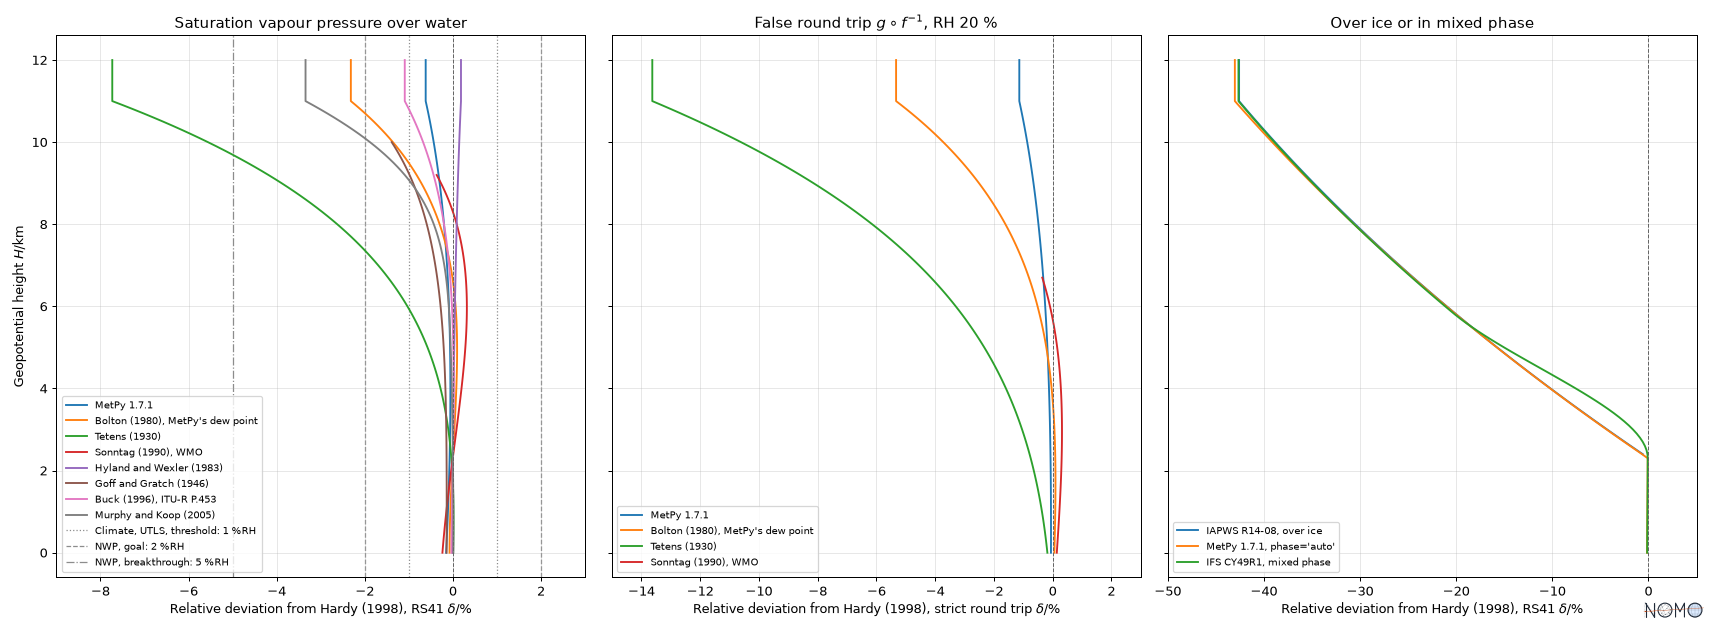
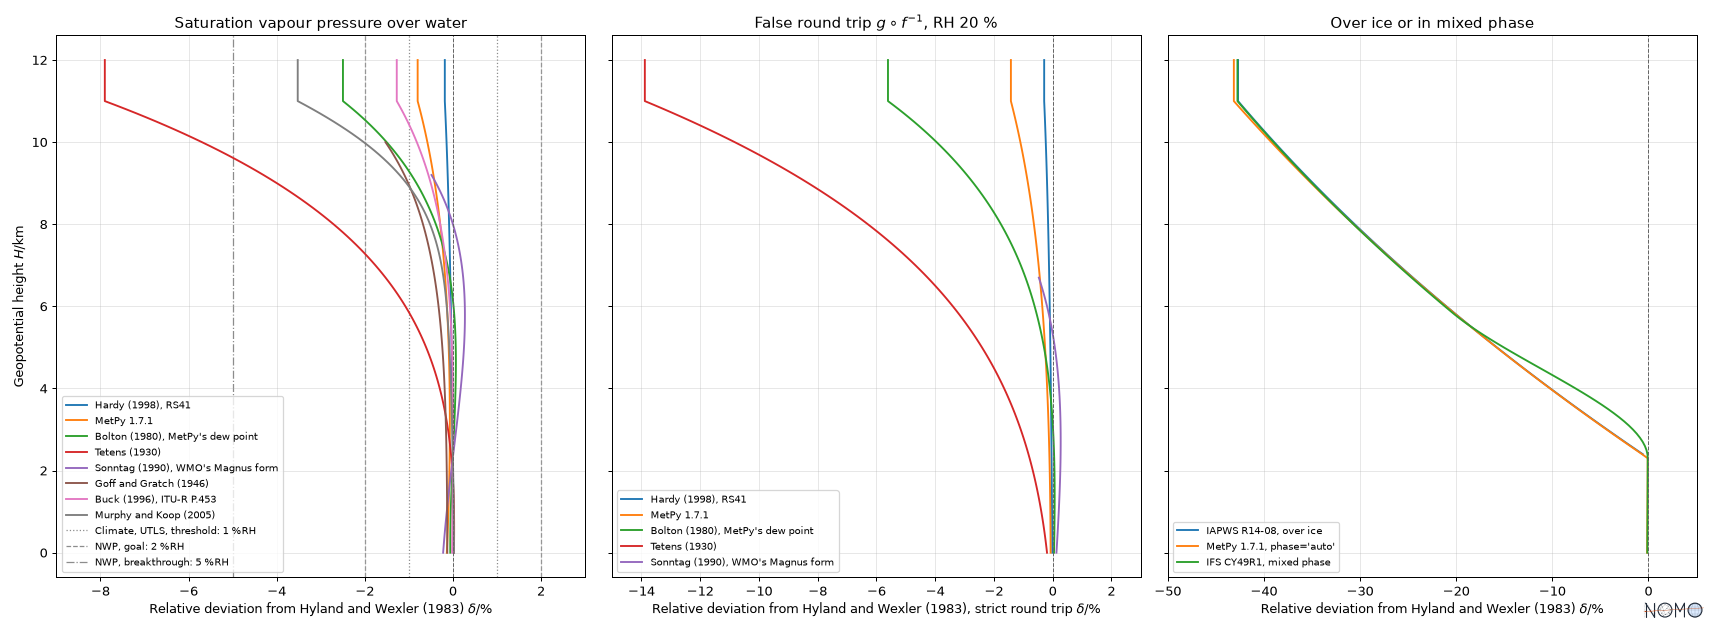
docs(humidity-aloft): Hyland and Wexler, named by WMO, as the reference

diff --git a/tests/test_examples.py b/tests/test_examples.py
@@ -263,12 +263,12 @@ def test_humidity_aloft_guide_gives_the_values_it_states() -> None:
         }
 
     saturation = percent(namespace["saturation"])
-    assert saturation["metpy171_saturation_vapour_pressure"] == -0.62
-    assert saturation["bolton1980"] == -2.32
-    assert saturation["tetens1930"] == -7.73
-    assert saturation["buck1996"] == -1.09
-    assert saturation["hyland_wexler1983"] == 0.18
-    assert saturation["murphy_koop2005_water"] == -3.34
+    assert saturation["hardy1998_water"] == -0.18
+    assert saturation["metpy171_saturation_vapour_pressure"] == -0.80
+    assert saturation["bolton1980"] == -2.50
+    assert saturation["tetens1930"] == -7.90
+    assert saturation["buck1996"] == -1.27
+    assert saturation["murphy_koop2005_water"] == -3.52
     # Each curve stops where its source does: below -45 and -50 degC.
     assert all(
         math.isnan(saturation[key]) for key in ("sonntag1990_magnus", "goff_gratch1946")
@@ -276,28 +276,36 @@ def test_humidity_aloft_guide_gives_the_values_it_states() -> None:
     saturated = {
         key: round(value, 3) for key, value in pascals(namespace["saturation"]).items()
     }
+    assert saturated["hyland_wexler1983"] == 3.006
     assert saturated["hardy1998_water"] == 3.001
     assert saturated["metpy171_saturation_vapour_pressure"] == 2.982
     assert saturated["bolton1980"] == 2.931
     assert saturated["tetens1930"] == 2.769
     assert saturated["buck1996"] == 2.968
-    assert saturated["hyland_wexler1983"] == 3.006
     assert saturated["murphy_koop2005_water"] == 2.900
 
     # The round trip: e = 0.20 f(T), Td = f^-1(e), then g(Td) and g(Td)/g(T).
-    start = 0.2 * pascals(namespace["saturation"])["hardy1998_water"]
+    start = 0.2 * pascals(namespace["saturation"])["hyland_wexler1983"]
+    dew_point = namespace["inverse"].evaluate(e=namespace["Q_"](start, "Pa"))
+    assert round(dew_point.to("degC").magnitude, 1) == -69.0
     back = pascals(namespace["decoded"])
-    assert abs(back["hardy1998_water"] / start - 1) < 1e-5  # the strict round trip
+    assert abs(back["hyland_wexler1983"] / start - 1) < 1e-9  # the strict round trip
     taken = {key: round(value, 3) for key, value in back.items()}
+    assert taken["hyland_wexler1983"] == 0.601
     assert taken["hardy1998_water"] == 0.600
     assert taken["metpy171_saturation_vapour_pressure"] == 0.593
     assert taken["bolton1980"] == 0.568
     assert taken["tetens1930"] == 0.518
     assert math.isnan(taken["sonntag1990_magnus"])
     decoded = percent(namespace["decoded"])
-    assert decoded["metpy171_saturation_vapour_pressure"] == -1.14
-    assert decoded["bolton1980"] == -5.33
-    assert decoded["tetens1930"] == -13.63
+    assert decoded["hardy1998_water"] == -0.29
+    assert decoded["metpy171_saturation_vapour_pressure"] == -1.42
+    assert decoded["bolton1980"] == -5.61
+    assert decoded["tetens1930"] == -13.88
+    # The round trip widens the gap of the saturation 1.6 to 2.2 times.
+    names = ("hardy1998_water", "metpy171_saturation_vapour_pressure", "bolton1980")
+    widening = [decoded[key] / saturation[key] for key in (*names, "tetens1930")]
+    assert (round(min(widening), 1), round(max(widening), 1)) == (1.6, 2.2)
 
     def humidity_back(table: Any, humidity: float) -> dict[str, float]:
         """g(Td)/g(T) in %, from the deviations of g(Td) and of g(T)."""
@@ -310,10 +318,11 @@ def test_humidity_aloft_guide_gives_the_values_it_states() -> None:
         }
 
     humidities = humidity_back(namespace["decoded"], 0.2)
-    assert humidities["hardy1998_water"] == 20.00
-    assert humidities["metpy171_saturation_vapour_pressure"] == 19.90
-    assert humidities["bolton1980"] == 19.38
-    assert humidities["tetens1930"] == 18.72
+    assert humidities["hyland_wexler1983"] == 20.00
+    assert humidities["hardy1998_water"] == 19.98
+    assert humidities["metpy171_saturation_vapour_pressure"] == 19.87
+    assert humidities["bolton1980"] == 19.36
+    assert humidities["tetens1930"] == 18.70
     # About the same gap in %RH at a relative humidity of 60 %.
     tetens = namespace["along"]("tetens1930", "Tetens (1930)", namespace["dew_point"])
     reference = namespace["back"]
@@ -321,6 +330,6 @@ def test_humidity_aloft_guide_gives_the_values_it_states() -> None:
     moist = namespace["compare"]([reference, tetens], reference, inputs)
     assert round(humidity_back(moist, 0.6)["tetens1930"] - 60, 1) == -1.1
     junctions = percent(namespace["junctions"])
-    assert junctions["iapws_r14_08_sublimation"] == -42.58
-    assert junctions["metpy171_saturation_vapour_pressure_auto"] == -43.02
-    assert junctions["ecmwf_ifs_saturation_mixed_phase"] == -42.65
+    assert junctions["iapws_r14_08_sublimation"] == -42.69
+    assert junctions["metpy171_saturation_vapour_pressure_auto"] == -43.13
+    assert junctions["ecmwf_ifs_saturation_mixed_phase"] == -42.75

diff --git a/docs/examples/humidity_aloft.py b/docs/examples/humidity_aloft.py
@@ -3,7 +3,7 @@
 
 """Saturation vapour pressure formulations along a vertical profile, the
 false round trip through the dew point, and the junctions of water and ice,
-against the producer's formulation.
+against the formulation WMO names for radiosondes.
 
 The lines of ``main`` up to the third ``plot_deviation_profile`` are the
 ones shown in ``docs/humidity-aloft.md`` (a test checks it); the rest only
@@ -23,6 +23,8 @@ import numpy as np
 import nomogram as nomo
 from nomogram.catalog import catalog
 from nomogram.comparison import Composition, Evaluable, compare, compose
+from nomogram.inversion import invert
+from nomogram.model import Variable
 from nomogram.units import Q_
 
 mpl.use("Agg")  # render to a file, without a display
@@ -38,29 +40,36 @@ def main(output: str) -> None:
         point = formulation.inputs[0].identifier
         return compose(formulation, {point: temperature}, label=label)
 
-    producer = "hardy1998_water"  # Wexler refitted to ITS-90, that of the RS41
+    wmo = "hyland_wexler1983"  # named by WMO for radiosondes (WMO-No. 8, 12.4.1)
     users = {
+        "hardy1998_water": "Hardy (1998), RS41",
         "metpy171_saturation_vapour_pressure": "MetPy 1.7.1",
         "bolton1980": "Bolton (1980), MetPy's dew point",
         "tetens1930": "Tetens (1930)",
-        "sonntag1990_magnus": "Sonntag (1990), WMO",
-        "hyland_wexler1983": "Hyland and Wexler (1983)",
+        "sonntag1990_magnus": "Sonntag (1990), WMO's Magnus form",
         "goff_gratch1946": "Goff and Gratch (1946)",
         "buck1996": "Buck (1996), ITU-R P.453",
         "murphy_koop2005_water": "Murphy and Koop (2005)",
     }
     grid = {"GeopotentialHeight": Q_(np.linspace(0, 12, 121), "km")}
-    reference = along(producer, "Hardy (1998), RS41")
+    reference = along(wmo, "Hyland and Wexler (1983)")
     saturation = compare(
         [reference, *(along(k, label) for k, label in users.items())], reference, grid
     )
-    # The false round trip: the producer codes a dew point with its own
-    # inverse, the user takes the vapour pressure back with another formula.
+    # The false round trip: the producer codes a dew point with the inverse of
+    # its formulation, the user takes the vapour pressure back with another.
+    inverse = invert(  # the dew point, solved numerically in the interval searched
+        f[wmo],
+        "T",
+        output=Variable("T_d", "DewPointTemperature", "K", "Dew point temperature"),
+        input=Variable("e", "VapourPressure", "PA", "Vapour pressure"),
+        search=(173.15, 373.15),
+    )
     vapour = compose(f["vapour_pressure_from_relative_humidity"], {"e_s": reference})
-    dew_point = compose(f["hardy1998_dew_point"], {"e": vapour})
-    names = ("metpy171_saturation_vapour_pressure", "bolton1980", "tetens1930")
-    decoders = {k: users[k] for k in (*names, "sonntag1990_magnus")}
-    back = along(producer, "Hardy (1998), strict round trip", dew_point)
+    dew_point = compose(inverse, {"e": vapour})
+    names = ("hardy1998_water", "metpy171_saturation_vapour_pressure", "bolton1980")
+    decoders = {k: users[k] for k in (*names, "tetens1930", "sonntag1990_magnus")}
+    back = along(wmo, "Hyland and Wexler (1983), strict round trip", dew_point)
     decoded = compare(
         [back, *(along(k, label, dew_point) for k, label in decoders.items())],
         back,

diff --git a/docs/humidity-aloft.md b/docs/humidity-aloft.md
@@ -71,11 +71,12 @@ the ISO 2533 standard atmosphere up to 32 km, from the ground to 12 km:
 above 11 km, its temperature stays at -56.5 °C up to 20 km, and the gaps
 stop growing; where the tropopause is colder, they keep growing: it
 reached -60 °C during the intercomparison, and is near -85 °C in the
-tropics (IOM No. 143, sections 2.2 and 9.2). On the left, each formulation a user may take, against the
-producer's, Hardy (1998), that of the RS41. In the middle, the false
-round trip: the producer codes a dew point with its own inverse, as BUFR
-messages require, and the user takes the vapour pressure back with
-another formulation, at a relative humidity of 20 %. On the right, the
+tropics (IOM No. 143, sections 2.2 and 9.2). On the left, each
+formulation a user may take, against Hyland and Wexler (1983), which WMO
+names for radiosondes. In the middle, the false round trip: the producer
+codes a dew point with the inverse of its formulation, as BUFR messages
+require, and the user takes the vapour pressure back with another
+formulation, at a relative humidity of 20 %. On the right, the
 saturation over ice, or in mixed phase, against the same reference (see
 [Over water or over ice](#over-water-or-over-ice)).
 
@@ -85,6 +86,8 @@ import numpy as np
 import nomogram as nomo
 from nomogram.catalog import catalog
 from nomogram.comparison import Composition, Evaluable, compare, compose
+from nomogram.inversion import invert
+from nomogram.model import Variable
 from nomogram.units import Q_
 
 import matplotlib.pyplot as plt
@@ -99,27 +102,34 @@ def along(key: str, label: str, temperature: Evaluable = air) -> Composition:
     return compose(formulation, {point: temperature}, label=label)
 
 
-producer = "hardy1998_water"  # Wexler refitted to ITS-90, that of the RS41
+wmo = "hyland_wexler1983"  # named by WMO for radiosondes (WMO-No. 8, 12.4.1)
 users = {
+    "hardy1998_water": "Hardy (1998), RS41",
     "metpy171_saturation_vapour_pressure": "MetPy 1.7.1",
     "bolton1980": "Bolton (1980), MetPy's dew point",
     "tetens1930": "Tetens (1930)",
-    "sonntag1990_magnus": "Sonntag (1990), WMO",
-    "hyland_wexler1983": "Hyland and Wexler (1983)",
+    "sonntag1990_magnus": "Sonntag (1990), WMO's Magnus form",
     "goff_gratch1946": "Goff and Gratch (1946)",
     "buck1996": "Buck (1996), ITU-R P.453",
     "murphy_koop2005_water": "Murphy and Koop (2005)",
 }
 grid = {"GeopotentialHeight": Q_(np.linspace(0, 12, 121), "km")}
-reference = along(producer, "Hardy (1998), RS41")
+reference = along(wmo, "Hyland and Wexler (1983)")
 saturation = compare(
     [reference, *(along(k, label) for k, label in users.items())], reference, grid
 )
+inverse = invert(  # the dew point, solved numerically in the interval searched
+    f[wmo],
+    "T",
+    output=Variable("T_d", "DewPointTemperature", "K", "Dew point temperature"),
+    input=Variable("e", "VapourPressure", "PA", "Vapour pressure"),
+    search=(173.15, 373.15),
+)
 vapour = compose(f["vapour_pressure_from_relative_humidity"], {"e_s": reference})
-dew_point = compose(f["hardy1998_dew_point"], {"e": vapour})
-names = ("metpy171_saturation_vapour_pressure", "bolton1980", "tetens1930")
-decoders = {k: users[k] for k in (*names, "sonntag1990_magnus")}
-back = along(producer, "Hardy (1998), strict round trip", dew_point)
+dew_point = compose(inverse, {"e": vapour})
+names = ("hardy1998_water", "metpy171_saturation_vapour_pressure", "bolton1980")
+decoders = {k: users[k] for k in (*names, "tetens1930", "sonntag1990_magnus")}
+back = along(wmo, "Hyland and Wexler (1983), strict round trip", dew_point)
 decoded = compare(
     [back, *(along(k, label, dew_point) for k, label in decoders.items())],
     back,
@@ -154,54 +164,59 @@ nomo.plot.plot_deviation_profile(
 )
 ```
 
-![Deviation of saturation vapour pressure formulations from Hardy (1998) along the reference atmosphere, of the vapour pressure taken back from the dew point, and of the saturation over ice or in mixed phase](images/humidity-aloft.png)
+![Deviation of saturation vapour pressure formulations from Hyland and Wexler (1983) along the reference atmosphere, of the vapour pressure taken back from the dew point, and of the saturation over ice or in mixed phase](images/humidity-aloft.png)
 
 Each curve stops where its source stops answering: the Magnus form of
 WMO at -45 °C, Goff and Gratch at -50 °C; the saturation over ice of
 IAPWS starts at the triple point, near 2.3 km.
 
-The reference is Hardy (1998) because it is the formulation of the
-producer, that of the RS41 (IOM No. 143, Table 3.3), not one of WMO: the
-Magnus form WMO gives is that of Sonntag (1990). BUFR messages carry the
-dew point, not the relative humidity (section 10.1.4), and do not name a
-formulation: the producer codes the dew point with its own. The values
-below hold for an RS41; for another radiosonde, the reference changes,
-Sonntag (1990) for the M20 or Bolton (1980) for the PS-B3.
+The reference is Hyland and Wexler (1983) because WMO names it: at the
+lowest temperatures, its guide asks radiosonde manufacturers to use
+Wexler (1976, 1977), Hyland and Wexler (1983) or Sonntag (1994), and not
+Goff and Gratch (WMO-No. 8, 2024, 12.4.1); the Magnus form it gives
+elsewhere is not suitable below -45 °C (Annex 4.B). A user may assume
+that a producer follows WMO: the RS41 does, with Hardy (1998), Wexler's
+formulation refitted to ITS-90 (IOM No. 143, Table 3.3), 0.18 % from the
+reference at 11 km. BUFR messages carry the dew point, not the relative
+humidity (section 10.1.4), and do not name a formulation: the producer
+codes the dew point with its own.
 
 At 11 km, where the temperature reaches -56.5 °C, the saturation vapour
 pressure of each formulation (left panel):
 
-| Formulation | Saturation vapour pressure | Deviation from Hardy (1998) |
+| Formulation | Saturation vapour pressure | Deviation from Hyland and Wexler (1983) |
 |---|---|---|
-| Hardy (1998), RS41 | 3.001 Pa | reference |
-| MetPy 1.7.1 | 2.982 Pa | -0.62 % |
-| Bolton (1980), MetPy's dew point | 2.931 Pa | -2.32 % |
-| Tetens (1930) | 2.769 Pa | -7.73 % |
-| Buck (1996), ITU-R P.453 | 2.968 Pa | -1.09 % |
-| Hyland and Wexler (1983) | 3.006 Pa | +0.18 % |
-| Murphy and Koop (2005) | 2.900 Pa | -3.34 % |
+| Hyland and Wexler (1983), WMO | 3.006 Pa | reference |
+| Hardy (1998), RS41 | 3.001 Pa | -0.18 % |
+| MetPy 1.7.1 | 2.982 Pa | -0.80 % |
+| Bolton (1980), MetPy's dew point | 2.931 Pa | -2.50 % |
+| Tetens (1930) | 2.769 Pa | -7.90 % |
+| Buck (1996), ITU-R P.453 | 2.968 Pa | -1.27 % |
+| Murphy and Koop (2005) | 2.900 Pa | -3.52 % |
 
 The round trip (middle panel) starts from what the radiosonde measures at
 11 km: a temperature T of -56.5 °C and a relative humidity of 20 %. The
-producer computes the vapour pressure with its formulation f, Hardy's,
-e = 0.20 f(T) = 0.600 Pa, and codes the dew point with Hardy's inverse,
-Td = f⁻¹(e) = -68.9 °C. The user takes back the vapour pressure with a
-formulation g, e′ = g(Td), and the relative humidity, g(Td)/g(T), as
-WMO's guide writes it from the dew point (WMO-No. 8, 4.B.11). With g = f,
-the round trip is strict, f ∘ f⁻¹, and gives back the start, within
-2·10⁻⁶ with Hardy's inverse; with another g, it is false, g ∘ f⁻¹:
+producer computes the vapour pressure with its formulation f, here
+Hyland and Wexler's, e = 0.20 f(T) = 0.601 Pa, and codes the dew point
+with its inverse, which nomogram solves numerically: Td = f⁻¹(e) =
+-69.0 °C. The user takes back the vapour pressure with a formulation g,
+e′ = g(Td), and the relative humidity, g(Td)/g(T), as WMO's guide writes
+it from the dew point (WMO-No. 8, 4.B.11). With g = f, the round trip is
+strict, f ∘ f⁻¹, and gives back the start; with another g, it is false,
+g ∘ f⁻¹:
 
 | Formulation g of the user | Vapour pressure e′ = g(Td) | Deviation from e | Relative humidity g(Td)/g(T) | Deviation |
 |---|---|---|---|---|
-| Hardy (1998), strict round trip f ∘ f⁻¹ | 0.600 Pa | 0.00 % | 20.00 % | 0.00 %RH |
-| MetPy 1.7.1 | 0.593 Pa | -1.14 % | 19.90 % | -0.10 %RH |
-| Bolton (1980), MetPy's dew point | 0.568 Pa | -5.33 % | 19.38 % | -0.62 %RH |
-| Tetens (1930) | 0.518 Pa | -13.63 % | 18.72 % | -1.28 %RH |
-| Sonntag (1990), WMO | outside its range, below -45 °C | | | |
+| Hyland and Wexler (1983), strict round trip f ∘ f⁻¹ | 0.601 Pa | 0.00 % | 20.00 % | 0.00 %RH |
+| Hardy (1998), RS41 | 0.600 Pa | -0.29 % | 19.98 % | -0.02 %RH |
+| MetPy 1.7.1 | 0.593 Pa | -1.42 % | 19.87 % | -0.13 %RH |
+| Bolton (1980), MetPy's dew point | 0.568 Pa | -5.61 % | 19.36 % | -0.64 %RH |
+| Tetens (1930) | 0.518 Pa | -13.88 % | 18.70 % | -1.30 %RH |
+| Sonntag (1990), WMO's Magnus form | outside its range, below -45 °C | | | |
 
 A user who needs a vapour pressure, an absolute humidity or a mixing
-ratio takes e′: the round trip widens the gap of the saturation 1.8 to
-2.3 times, since it evaluates the two formulations at the dew point,
+ratio takes e′: the round trip widens the gap of the saturation 1.6 to
+2.2 times, since it evaluates the two formulations at the dew point,
 colder than the air. A user who needs the relative humidity divides by
 g(T): the two gaps partly cancel, and -1.3 %RH remains with Tetens' form,
 about the same at a relative humidity of 60 % (-1.1 %RH). The relative
@@ -229,7 +244,7 @@ take another saturation below 0 °C:
 
 | Relative humidity | Saturation below 0 °C | In the catalog |
 |---|---|---|
-| WMO, radiosondes, Vaisala | over supercooled water | `hardy1998_water` |
+| WMO, radiosondes, Vaisala | over supercooled water | `hyland_wexler1983`, `hardy1998_water` |
 | MetPy 1.7.1, with `phase='auto'` (over water by default) | over ice, from the triple point, 273.16 K | `metpy171_saturation_vapour_pressure_auto` |
 | IFS CY49R1, diagnostic relative humidity | over ice below 250.16 K (-23 °C); from there to 0 °C, weighted by a liquid fraction quadratic in temperature | `ecmwf_ifs_saturation_mixed_phase` |
 
@@ -239,7 +254,7 @@ kinds, `SaturationVapourPressureOverWater` and
 `compare` puts them in one table only when asked for that kind,
 `kind="SaturationVapourPressure"`, as on the right of the figure. MetPy
 changes phase at the triple point, the IFS gradually from 0 to -23 °C.
-At 11 km, the saturation over ice is 42.6 % below that over water: air
+At 11 km, the saturation over ice is 42.7 % below that over water: air
 saturated over ice has a relative humidity of 57 % over water. Between
 the relative humidity of a radiosonde and that of the IFS, the gap of
 convention is there more than five times the largest gap of formulation
@@ -261,8 +276,9 @@ A relative deviation becomes percentage points when multiplied by the
 relative humidity: at saturation, as on the left of the figure, 1 % is
 1 %RH. In the lower troposphere, the choice of formulation stays well
 under the goal of numerical weather prediction. Aloft, Bolton's form
-reaches that goal and Tetens' goes beyond the breakthrough. For climate, even the
-difference of definition, 0.2 to 0.4 %RH, takes most of the threshold.
+goes beyond that goal, and Tetens' beyond the breakthrough. For climate,
+even the difference of definition, 0.2 to 0.4 %RH, takes most of the
+threshold.
 The gap is a bias, not a noise: it does not average out.
 
 ## Search

diff --git a/CHANGELOG.md b/CHANGELOG.md
@@ -78,15 +78,15 @@ and this project adheres to
   downwards on a logarithmic axis, with reference levels as vertical
   lines (`references`) and off-scale curves as in `plot_deviations`.
 - `docs/humidity-aloft.md`: why the lineage of data should cite the
-  formulations that made them; the formula of a radiosonde's producer
-  against its users' along the reference atmosphere, the false round trip
-  through the dew point, which widens the gap aloft (-13.6 % on the
-  vapour pressure with Tetens at 11 km for a relative humidity of 20 %,
-  -1.3 %RH on the relative humidity recomputed from it), the saturation
-  over ice or in
-  mixed phase against that over water, which the relative humidity of a
-  radiosonde, of MetPy or of the IFS takes below 0 °C (-42.6 % at 11 km),
-  and WMO's OSCAR requirements in %RH; with its figure and script
+  formulations that made them; the formulations a user may take against
+  Hyland and Wexler (1983), which WMO names for radiosondes, along the
+  reference atmosphere, the false round trip through the dew point,
+  which widens the gap aloft (-13.9 % on the vapour pressure with Tetens
+  at 11 km for a relative humidity of 20 %, -1.3 %RH on the relative
+  humidity recomputed from it), the saturation over ice or in mixed phase
+  against that over water, which the relative humidity of a radiosonde,
+  of MetPy or of the IFS takes below 0 °C (-42.7 % at 11 km), and WMO's
+  OSCAR requirements in %RH; with its figure and script
   (`docs/examples/humidity_aloft.py`).
 - The saturation vapour pressure formulations of radiosonde humidity
   producers: Vaisala's conversion formulas (2013), a simplified base-10
